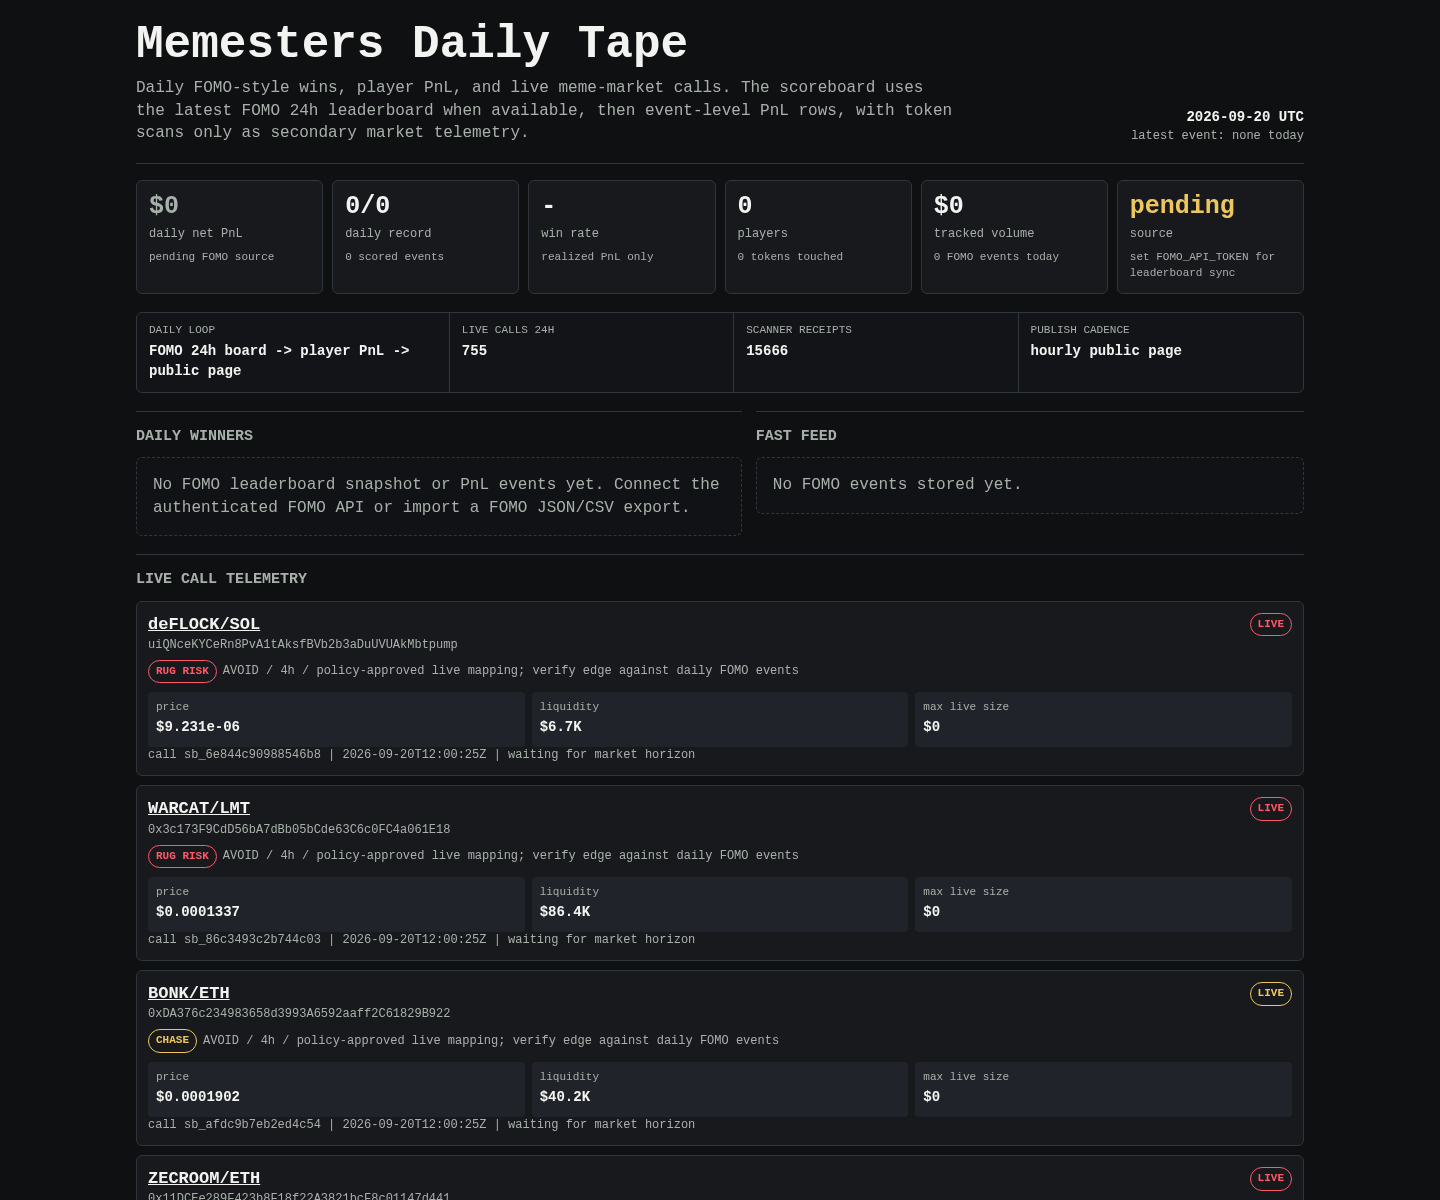
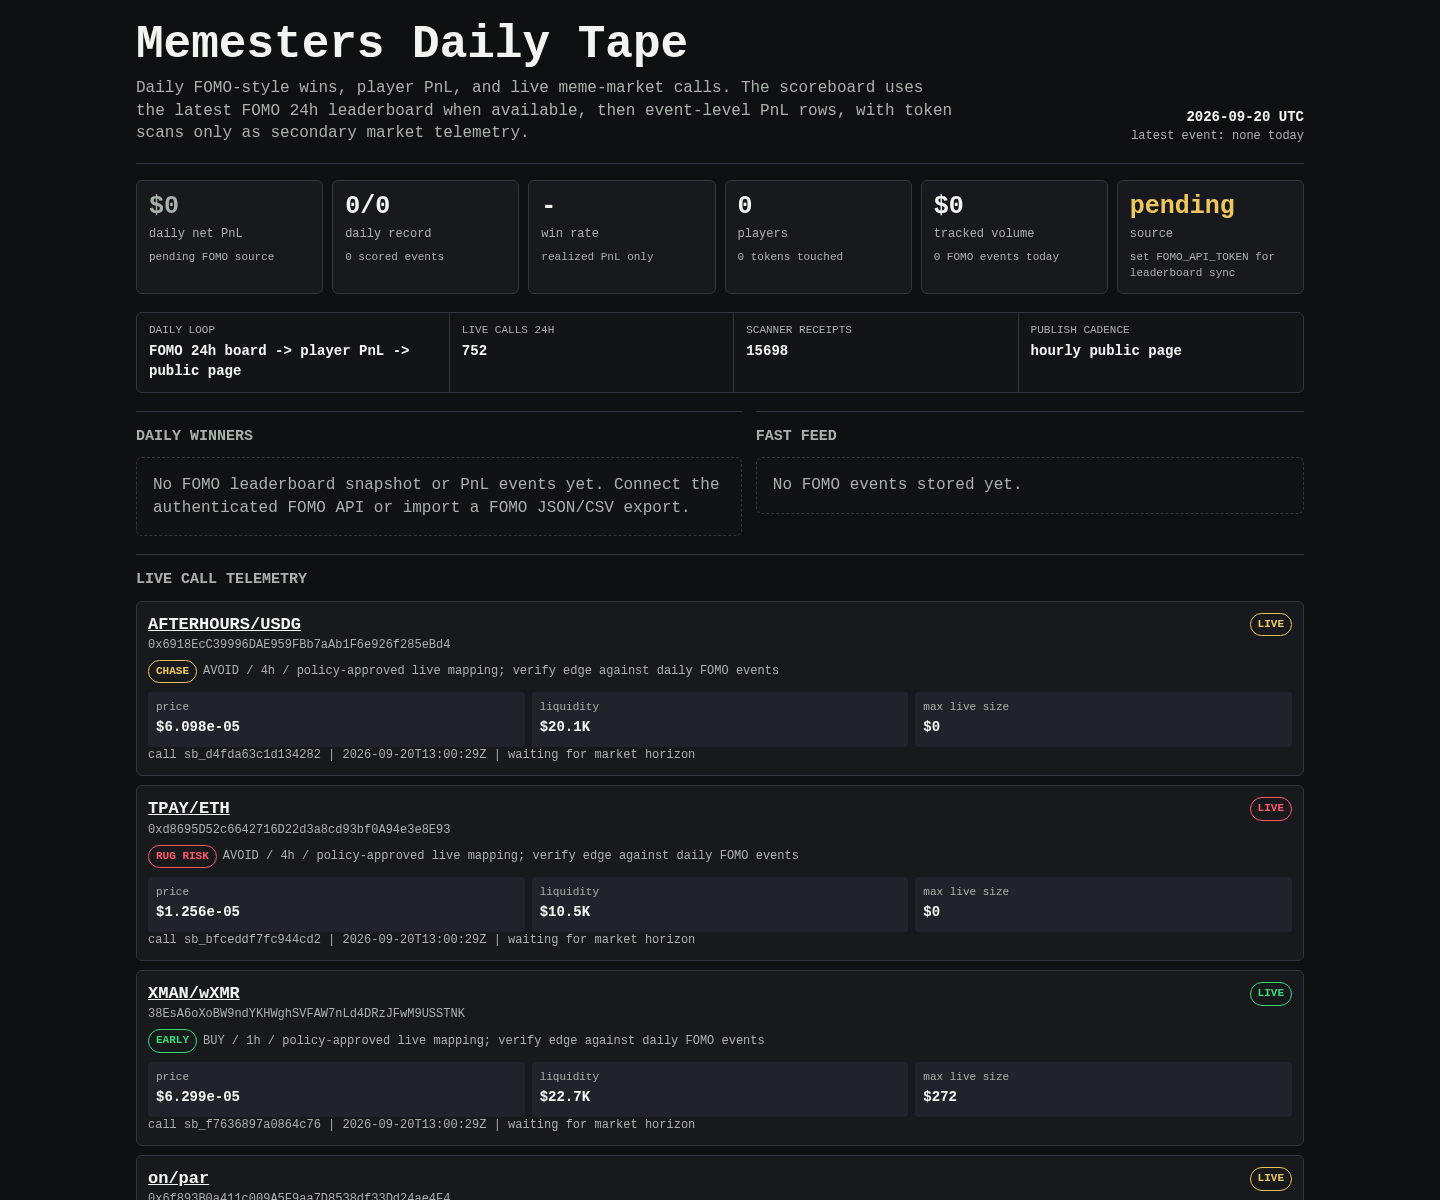
Update Memesters scoreboard

diff --git a/memesters/index.html b/memesters/index.html
@@ -149,8 +149,8 @@
 
     <div class="rail" aria-label="live operating loop">
       <div><span>daily loop</span><b>FOMO 24h board -> player PnL -> public page</b></div>
-      <div><span>live calls 24h</span><b>755</b></div>
-      <div><span>scanner receipts</span><b>15666</b></div>
+      <div><span>live calls 24h</span><b>752</b></div>
+      <div><span>scanner receipts</span><b>15698</b></div>
       <div><span>publish cadence</span><b>hourly public page</b></div>
     </div>
 
@@ -171,153 +171,6 @@
     <article class="receipt">
       <div class="receipt-head">
         <div>
-          <div class="pair"><a href="https://dexscreener.com/solana/j9ctfcvksyc2uj9p4jmpc6ewjt6rwbi6hcwskkkcaaeu">deFLOCK/SOL</a></div>
-          <div class="addr">uiQNceKYCeRn8PvA1tAksfBVb2b3aDuUVUAkMbtpump</div>
-          <div class="addr policy-line">
-            <span class="badge rug-risk">RUG RISK</span>
-            <span>AVOID / 4h / policy-approved live mapping; verify edge against daily FOMO events</span>
-          </div>
-        </div>
-        <span class="badge rug-risk">LIVE</span>
-      </div>
-      <div class="receipt-grid">
-        <div class="kv"><span>price</span><b>$9.231e-06</b></div>
-        <div class="kv"><span>liquidity</span><b>$6.7K</b></div>
-        <div class="kv"><span>max live size</span><b>$0</b></div>
-      </div>
-      <div class="outcomes">call sb_6e844c90988546b8 | 2026-09-20T12:00:25Z | waiting for market horizon</div>
-    </article>
-    
-
-    <article class="receipt">
-      <div class="receipt-head">
-        <div>
-          <div class="pair"><a href="https://dexscreener.com/robinhood/0x11fa39627d4ad4477444d82d5e7c7e0a39d47080b0dcb691ce0de6b2f57f8970">WARCAT/LMT</a></div>
-          <div class="addr">0x3c173F9CdD56bA7dBb05bCde63C6c0FC4a061E18</div>
-          <div class="addr policy-line">
-            <span class="badge rug-risk">RUG RISK</span>
-            <span>AVOID / 4h / policy-approved live mapping; verify edge against daily FOMO events</span>
-          </div>
-        </div>
-        <span class="badge rug-risk">LIVE</span>
-      </div>
-      <div class="receipt-grid">
-        <div class="kv"><span>price</span><b>$0.0001337</b></div>
-        <div class="kv"><span>liquidity</span><b>$86.4K</b></div>
-        <div class="kv"><span>max live size</span><b>$0</b></div>
-      </div>
-      <div class="outcomes">call sb_86c3493c2b744c03 | 2026-09-20T12:00:25Z | waiting for market horizon</div>
-    </article>
-    
-
-    <article class="receipt">
-      <div class="receipt-head">
-        <div>
-          <div class="pair"><a href="https://dexscreener.com/robinhood/0x94f15e65052242b4466861ba9aba33f03f9567ee861c3d07a72a5489fa6b8a22">BONK/ETH</a></div>
-          <div class="addr">0xDA376c234983658d3993A6592aaff2C61829B922</div>
-          <div class="addr policy-line">
-            <span class="badge chase">CHASE</span>
-            <span>AVOID / 4h / policy-approved live mapping; verify edge against daily FOMO events</span>
-          </div>
-        </div>
-        <span class="badge chase">LIVE</span>
-      </div>
-      <div class="receipt-grid">
-        <div class="kv"><span>price</span><b>$0.0001902</b></div>
-        <div class="kv"><span>liquidity</span><b>$40.2K</b></div>
-        <div class="kv"><span>max live size</span><b>$0</b></div>
-      </div>
-      <div class="outcomes">call sb_afdc9b7eb2ed4c54 | 2026-09-20T12:00:25Z | waiting for market horizon</div>
-    </article>
-    
-
-    <article class="receipt">
-      <div class="receipt-head">
-        <div>
-          <div class="pair"><a href="https://dexscreener.com/robinhood/0x6971aec350823c12985a98869bec17dae3d7dd9a005f76cbc80789de5210baa7">ZECROOM/ETH</a></div>
-          <div class="addr">0x11DCEe289F423b8F18f22A3821bcF8c01147d441</div>
-          <div class="addr policy-line">
-            <span class="badge rug-risk">RUG RISK</span>
-            <span>AVOID / 4h / policy-approved live mapping; verify edge against daily FOMO events</span>
-          </div>
-        </div>
-        <span class="badge rug-risk">LIVE</span>
-      </div>
-      <div class="receipt-grid">
-        <div class="kv"><span>price</span><b>$0.0001257</b></div>
-        <div class="kv"><span>liquidity</span><b>$50.9K</b></div>
-        <div class="kv"><span>max live size</span><b>$0</b></div>
-      </div>
-      <div class="outcomes">call sb_f2758392fcad495e | 2026-09-20T12:00:25Z | waiting for market horizon</div>
-    </article>
-    
-
-    <article class="receipt">
-      <div class="receipt-head">
-        <div>
-          <div class="pair"><a href="https://dexscreener.com/solana/ezhb9s4n5wf9meazhvgrbvfpxtvdondtefzh6vqy7izy">Kittens/SOL</a></div>
-          <div class="addr">2SUUWJmYiDrwJuGcFe8Fu2Yf61y7weegfV34agJZpump</div>
-          <div class="addr policy-line">
-            <span class="badge rug-risk">RUG RISK</span>
-            <span>AVOID / 4h / policy-approved live mapping; verify edge against daily FOMO events</span>
-          </div>
-        </div>
-        <span class="badge rug-risk">LIVE</span>
-      </div>
-      <div class="receipt-grid">
-        <div class="kv"><span>price</span><b>$2.944e-05</b></div>
-        <div class="kv"><span>liquidity</span><b>$13.1K</b></div>
-        <div class="kv"><span>max live size</span><b>$0</b></div>
-      </div>
-      <div class="outcomes">call sb_f0513c480f6e4f8a | 2026-09-20T12:00:25Z | waiting for market horizon</div>
-    </article>
-    
-
-    <article class="receipt">
-      <div class="receipt-head">
-        <div>
-          <div class="pair"><a href="https://dexscreener.com/base/0x050e44afe314c0298d695f7e7b6bb4769475d7541a37da644950a59413460360">MUSEWORLD/GITLAWB</a></div>
-          <div class="addr">0x882c8e35504d58979b1280fE76D6553f717029F8</div>
-          <div class="addr policy-line">
-            <span class="badge early">EARLY</span>
-            <span>BUY / 1h / policy-approved live mapping; verify edge against daily FOMO events</span>
-          </div>
-        </div>
-        <span class="badge early">LIVE</span>
-      </div>
-      <div class="receipt-grid">
-        <div class="kv"><span>price</span><b>$0.0005201</b></div>
-        <div class="kv"><span>liquidity</span><b>$169.9K</b></div>
-        <div class="kv"><span>max live size</span><b>$1.7K</b></div>
-      </div>
-      <div class="outcomes">call sb_16e3ef8fdc8147f2 | 2026-09-20T12:00:25Z | waiting for market horizon</div>
-    </article>
-    
-
-    <article class="receipt">
-      <div class="receipt-head">
-        <div>
-          <div class="pair"><a href="https://dexscreener.com/robinhood/0x7ef73d0bef498e20affb026be7780661ad61c999d044ec5705579dd609470eba">NFS/ETH</a></div>
-          <div class="addr">0xFA1FFCB2E4a54Db8150Eb79c9E6eD7d4Ff5D9905</div>
-          <div class="addr policy-line">
-            <span class="badge chase">CHASE</span>
-            <span>AVOID / 4h / policy-approved live mapping; verify edge against daily FOMO events</span>
-          </div>
-        </div>
-        <span class="badge chase">LIVE</span>
-      </div>
-      <div class="receipt-grid">
-        <div class="kv"><span>price</span><b>$8.533e-05</b></div>
-        <div class="kv"><span>liquidity</span><b>$27.5K</b></div>
-        <div class="kv"><span>max live size</span><b>$0</b></div>
-      </div>
-      <div class="outcomes">call sb_d2f4653997ff4e64 | 2026-09-20T12:00:24Z | waiting for market horizon</div>
-    </article>
-    
-
-    <article class="receipt">
-      <div class="receipt-head">
-        <div>
           <div class="pair"><a href="https://dexscreener.com/robinhood/0x5054ee8f684356b9e050d6322625c5480d43d64abbb4126c3857e8453786d6a8">AFTERHOURS/USDG</a></div>
           <div class="addr">0x6918EcC39996DAE959FBb7aAb1F6e926f285eBd4</div>
           <div class="addr policy-line">
@@ -328,19 +181,40 @@
         <span class="badge chase">LIVE</span>
       </div>
       <div class="receipt-grid">
-        <div class="kv"><span>price</span><b>$6.751e-05</b></div>
-        <div class="kv"><span>liquidity</span><b>$21.1K</b></div>
+        <div class="kv"><span>price</span><b>$6.098e-05</b></div>
+        <div class="kv"><span>liquidity</span><b>$20.1K</b></div>
         <div class="kv"><span>max live size</span><b>$0</b></div>
       </div>
-      <div class="outcomes">call sb_c64ef5ef2c7144f9 | 2026-09-20T12:00:24Z | waiting for market horizon</div>
+      <div class="outcomes">call sb_d4fda63c1d134282 | 2026-09-20T13:00:29Z | waiting for market horizon</div>
     </article>
     
 
     <article class="receipt">
       <div class="receipt-head">
         <div>
-          <div class="pair"><a href="https://dexscreener.com/solana/a498b2cpmjnmakqyapyf32xljhbpvytznrnw5cgx3ste">SANJO/USDC</a></div>
-          <div class="addr">EbXSk1yce8UGhJjcRHWBgf4RvZKPdLZaUWnvQK22pump</div>
+          <div class="pair"><a href="https://dexscreener.com/robinhood/0xd0080c3e4dc6a13738569c7d28673a0624ec0e6ca1cd1827e8261f11d5ce5e78">TPAY/ETH</a></div>
+          <div class="addr">0xd8695D52c6642716D22d3a8cd93bf0A94e3e8E93</div>
+          <div class="addr policy-line">
+            <span class="badge rug-risk">RUG RISK</span>
+            <span>AVOID / 4h / policy-approved live mapping; verify edge against daily FOMO events</span>
+          </div>
+        </div>
+        <span class="badge rug-risk">LIVE</span>
+      </div>
+      <div class="receipt-grid">
+        <div class="kv"><span>price</span><b>$1.256e-05</b></div>
+        <div class="kv"><span>liquidity</span><b>$10.5K</b></div>
+        <div class="kv"><span>max live size</span><b>$0</b></div>
+      </div>
+      <div class="outcomes">call sb_bfceddf7fc944cd2 | 2026-09-20T13:00:29Z | waiting for market horizon</div>
+    </article>
+    
+
+    <article class="receipt">
+      <div class="receipt-head">
+        <div>
+          <div class="pair"><a href="https://dexscreener.com/solana/56tyxeqqeaehasqbgu7j5wb7d22smqagoxctdyyupa3f">XMAN/wXMR</a></div>
+          <div class="addr">38EsA6oXoBW9ndYKHWghSVFAW7nLd4DRzJFwM9USSTNK</div>
           <div class="addr policy-line">
             <span class="badge early">EARLY</span>
             <span>BUY / 1h / policy-approved live mapping; verify edge against daily FOMO events</span>
@@ -349,19 +223,124 @@
         <span class="badge early">LIVE</span>
       </div>
       <div class="receipt-grid">
-        <div class="kv"><span>price</span><b>$0.0004698</b></div>
-        <div class="kv"><span>liquidity</span><b>$66.4K</b></div>
+        <div class="kv"><span>price</span><b>$6.299e-05</b></div>
+        <div class="kv"><span>liquidity</span><b>$22.7K</b></div>
+        <div class="kv"><span>max live size</span><b>$272</b></div>
+      </div>
+      <div class="outcomes">call sb_f7636897a0864c76 | 2026-09-20T13:00:29Z | waiting for market horizon</div>
+    </article>
+    
+
+    <article class="receipt">
+      <div class="receipt-head">
+        <div>
+          <div class="pair"><a href="https://dexscreener.com/robinhood/0xf4773320067a151c9f977d70124a99e9d1b7edcc9790929c61614cd5086f7cdc">on/par</a></div>
+          <div class="addr">0x6f893B0a411c009A5F9aa7D8538df33Dd24ae4F4</div>
+          <div class="addr policy-line">
+            <span class="badge chase">CHASE</span>
+            <span>AVOID / 4h / policy-approved live mapping; verify edge against daily FOMO events</span>
+          </div>
+        </div>
+        <span class="badge chase">LIVE</span>
+      </div>
+      <div class="receipt-grid">
+        <div class="kv"><span>price</span><b>$6.508e-05</b></div>
+        <div class="kv"><span>liquidity</span><b>$32.9K</b></div>
+        <div class="kv"><span>max live size</span><b>$0</b></div>
+      </div>
+      <div class="outcomes">call sb_181e0b2f636642a6 | 2026-09-20T13:00:29Z | waiting for market horizon</div>
+    </article>
+    
+
+    <article class="receipt">
+      <div class="receipt-head">
+        <div>
+          <div class="pair"><a href="https://dexscreener.com/robinhood/0xc1630e2386a682bb56eb7493f13a65bd8418f7c82198ec09bf38b4d678019085">Olympus/SPCX</a></div>
+          <div class="addr">0x094dFC1425EeD5e58D459122967098B8139D44c9</div>
+          <div class="addr policy-line">
+            <span class="badge chase">CHASE</span>
+            <span>AVOID / 4h / policy-approved live mapping; verify edge against daily FOMO events</span>
+          </div>
+        </div>
+        <span class="badge chase">LIVE</span>
+      </div>
+      <div class="receipt-grid">
+        <div class="kv"><span>price</span><b>$0.0001595</b></div>
+        <div class="kv"><span>liquidity</span><b>$38.0K</b></div>
+        <div class="kv"><span>max live size</span><b>$0</b></div>
+      </div>
+      <div class="outcomes">call sb_a170c51f9fe645fc | 2026-09-20T13:00:29Z | waiting for market horizon</div>
+    </article>
+    
+
+    <article class="receipt">
+      <div class="receipt-head">
+        <div>
+          <div class="pair"><a href="https://dexscreener.com/bsc/0xd9f4410139e9be3234fcdc555ff1f17d637304b2">Obvious/WBNB</a></div>
+          <div class="addr">0x5B09d9cC3fb1629b1753F886EfF10AD7834D4520</div>
+          <div class="addr policy-line">
+            <span class="badge chase">CHASE</span>
+            <span>AVOID / 4h / policy-approved live mapping; verify edge against daily FOMO events</span>
+          </div>
+        </div>
+        <span class="badge chase">LIVE</span>
+      </div>
+      <div class="receipt-grid">
+        <div class="kv"><span>price</span><b>$1.678e-05</b></div>
+        <div class="kv"><span>liquidity</span><b>$14.3K</b></div>
+        <div class="kv"><span>max live size</span><b>$0</b></div>
+      </div>
+      <div class="outcomes">call sb_98c8acbcb3ef4dc7 | 2026-09-20T13:00:29Z | waiting for market horizon</div>
+    </article>
+    
+
+    <article class="receipt">
+      <div class="receipt-head">
+        <div>
+          <div class="pair"><a href="https://dexscreener.com/solana/4vvbhcrxblftpjkcdpwxmsv1anlpmyhj1kyduxdws4pj">RAYINU/RAY</a></div>
+          <div class="addr">UZ9ZtoBnc5J8fSvnckaKf4WEg8GBMhZQjSK1Qb8STNK</div>
+          <div class="addr policy-line">
+            <span class="badge chase">CHASE</span>
+            <span>AVOID / 4h / policy-approved live mapping; verify edge against daily FOMO events</span>
+          </div>
+        </div>
+        <span class="badge chase">LIVE</span>
+      </div>
+      <div class="receipt-grid">
+        <div class="kv"><span>price</span><b>$9.582e-05</b></div>
+        <div class="kv"><span>liquidity</span><b>$27.0K</b></div>
+        <div class="kv"><span>max live size</span><b>$0</b></div>
+      </div>
+      <div class="outcomes">call sb_44153bbc916d403d | 2026-09-20T13:00:28Z | waiting for market horizon</div>
+    </article>
+    
+
+    <article class="receipt">
+      <div class="receipt-head">
+        <div>
+          <div class="pair"><a href="https://dexscreener.com/bsc/0xbccf5eb10bffdc1012972940e9ac94a29b7a64ec">HOST/WBNB</a></div>
+          <div class="addr">0x83fE6B744c37595eE738e5d41d967e600dA27777</div>
+          <div class="addr policy-line">
+            <span class="badge early">EARLY</span>
+            <span>BUY / 1h / policy-approved live mapping; verify edge against daily FOMO events</span>
+          </div>
+        </div>
+        <span class="badge early">LIVE</span>
+      </div>
+      <div class="receipt-grid">
+        <div class="kv"><span>price</span><b>$4.369e-06</b></div>
+        <div class="kv"><span>liquidity</span><b>$9.5K</b></div>
         <div class="kv"><span>max live size</span><b>$109</b></div>
       </div>
-      <div class="outcomes">call sb_f668a7857fd74087 | 2026-09-20T11:45:23Z | waiting for market horizon</div>
+      <div class="outcomes">call sb_0048fc9dae9d441a | 2026-09-20T13:00:28Z | waiting for market horizon</div>
     </article>
     
 
     <article class="receipt">
       <div class="receipt-head">
         <div>
-          <div class="pair"><a href="https://dexscreener.com/robinhood/0x720f0dd59dca94f02bd71c40e76d1d281471e3c7a60508b31703f7e683901fb2">BRIER/ETH</a></div>
-          <div class="addr">0x1CcCf881AC6d696d1670356E8A43761530A99639</div>
+          <div class="pair"><a href="https://dexscreener.com/solana/f1q2xnsd18rhqqhzxsl1wueqjkvsjjsk53hafpz7qzqr">Foxi/SOL</a></div>
+          <div class="addr">HLfoPLWXgR5ErZQvvvdeZrh3esJbNmi6pXFWH2YWpump</div>
           <div class="addr policy-line">
             <span class="badge early">EARLY</span>
             <span>BUY / 1h / policy-approved live mapping; verify edge against daily FOMO events</span>
@@ -370,11 +349,32 @@
         <span class="badge early">LIVE</span>
       </div>
       <div class="receipt-grid">
-        <div class="kv"><span>price</span><b>$4.617e-05</b></div>
-        <div class="kv"><span>liquidity</span><b>$20.2K</b></div>
-        <div class="kv"><span>max live size</span><b>$242</b></div>
+        <div class="kv"><span>price</span><b>$6.346e-05</b></div>
+        <div class="kv"><span>liquidity</span><b>$20.1K</b></div>
+        <div class="kv"><span>max live size</span><b>$198</b></div>
       </div>
-      <div class="outcomes">call sb_8ed62d83107a4e06 | 2026-09-20T11:45:23Z | waiting for market horizon</div>
+      <div class="outcomes">call sb_acef5f1aa05e4a4c | 2026-09-20T12:45:23Z | waiting for market horizon</div>
+    </article>
+    
+
+    <article class="receipt">
+      <div class="receipt-head">
+        <div>
+          <div class="pair"><a href="https://dexscreener.com/robinhood/0x7ef73d0bef498e20affb026be7780661ad61c999d044ec5705579dd609470eba">NFS/ETH</a></div>
+          <div class="addr">0xFA1FFCB2E4a54Db8150Eb79c9E6eD7d4Ff5D9905</div>
+          <div class="addr policy-line">
+            <span class="badge early">EARLY</span>
+            <span>BUY / 1h / policy-approved live mapping; verify edge against daily FOMO events</span>
+          </div>
+        </div>
+        <span class="badge early">LIVE</span>
+      </div>
+      <div class="receipt-grid">
+        <div class="kv"><span>price</span><b>$9.45e-05</b></div>
+        <div class="kv"><span>liquidity</span><b>$28.9K</b></div>
+        <div class="kv"><span>max live size</span><b>$68</b></div>
+      </div>
+      <div class="outcomes">call sb_0a34f78368fd4b99 | 2026-09-20T12:45:23Z | waiting for market horizon</div>
     </article>
     
     </section>
